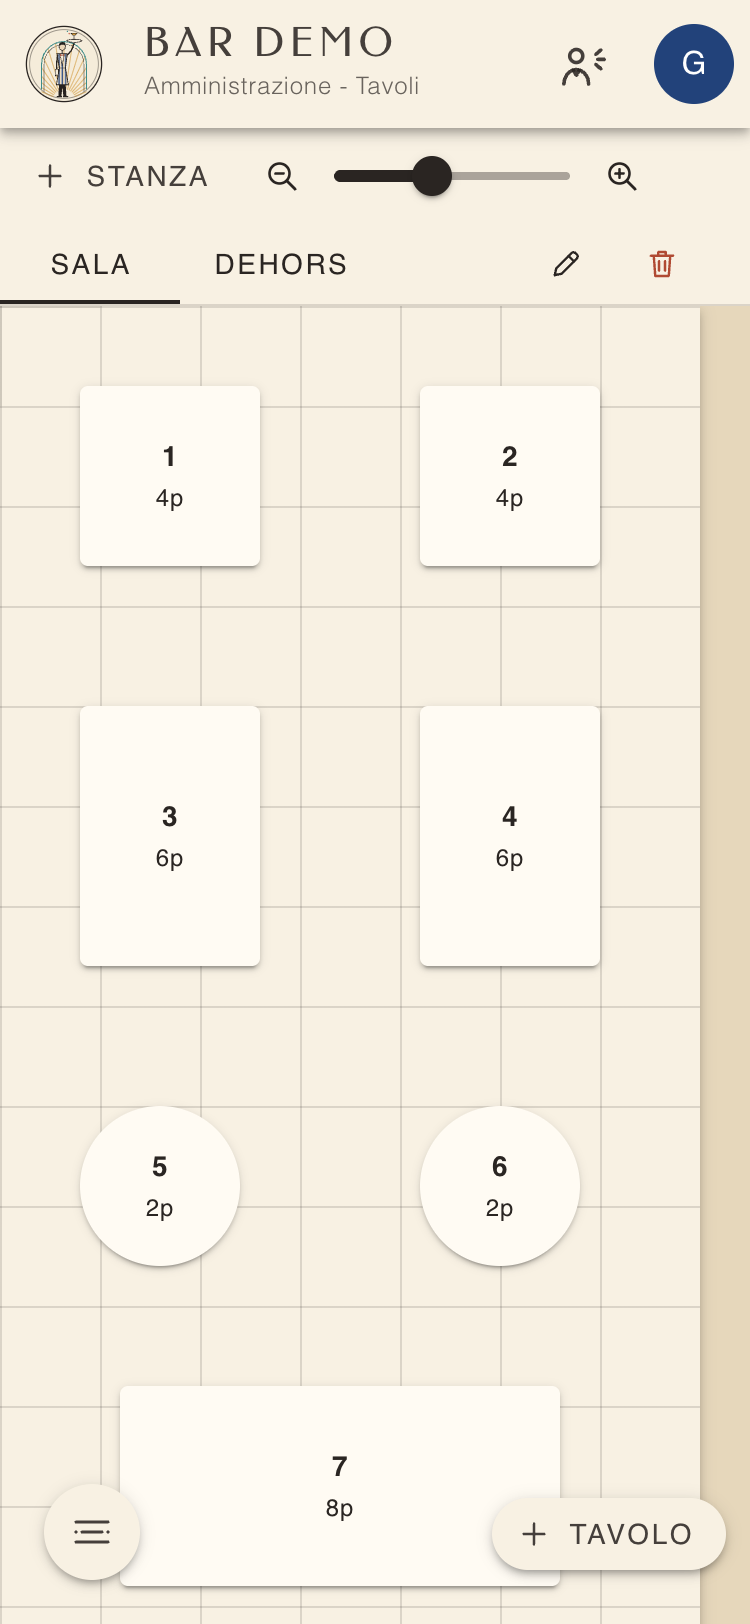
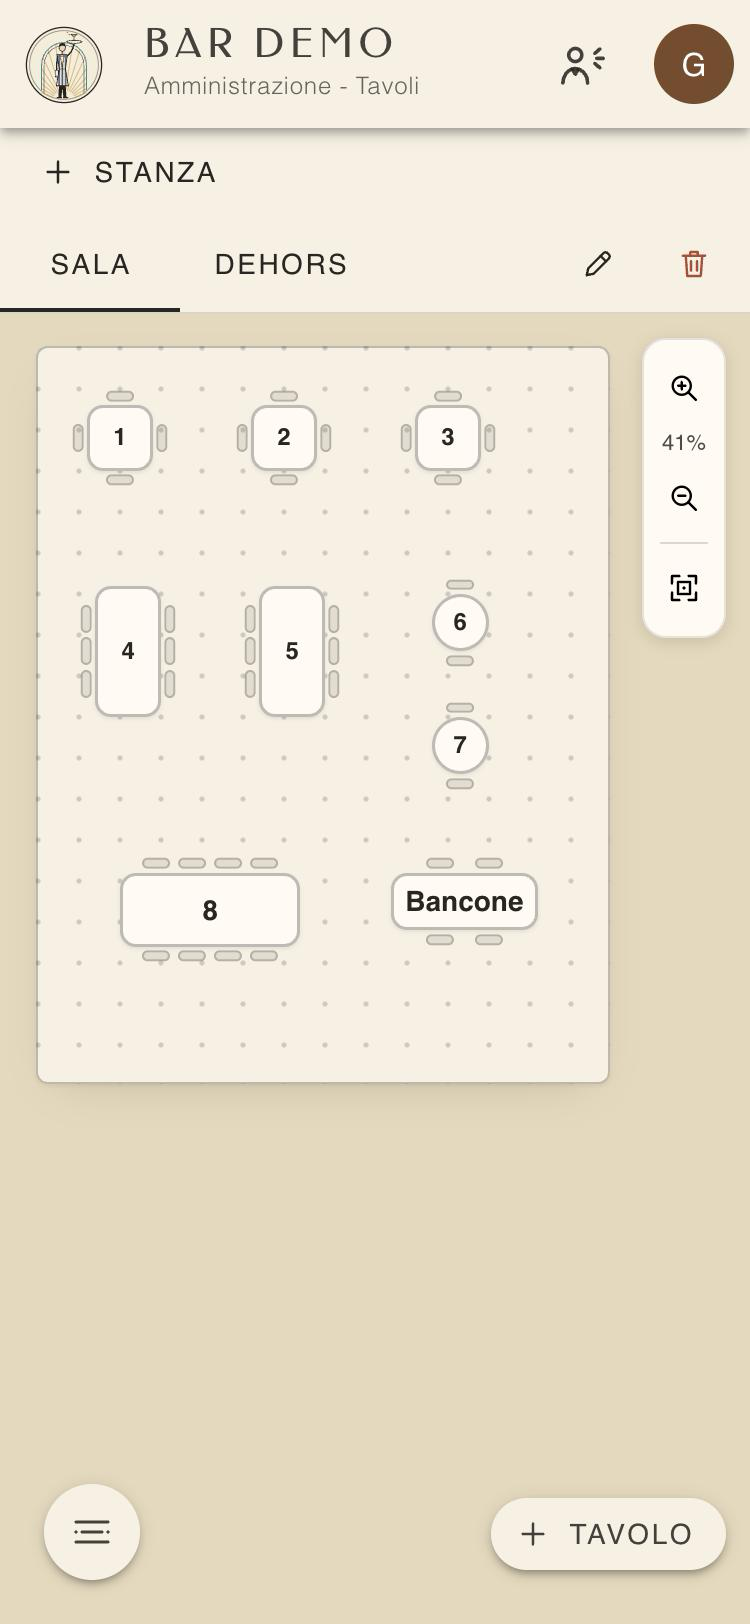
chore: guide synced with chi-comanda (floor plan, sign-up, subscription, privacy tools)

diff --git a/src/content/guida/registrazione.md b/src/content/guida/registrazione.md
@@ -1,0 +1,50 @@
+# Registrare il tuo locale
+
+[← Guida](/guida)
+
+Se il tuo locale non usa ancora Chi Comanda, puoi registrarlo da solo. La registrazione crea il locale e il tuo account
+di amministratore; poi una configurazione guidata ti accompagna fino alla prima serata.
+
+## Registrarsi
+
+1. Apri la pagina **Registra il tuo locale** (dal sito, o dalla pagina di accesso: **Non hai un account? Registra il tuo
+   locale**).
+2. Scrivi il **Nome del locale**, **Il tuo nome**, l'**E-mail** e una **Password** di almeno 8 caratteri.
+3. Spunta le tre caselle: accetti le **condizioni del servizio**, confermi di aver letto l'**informativa sulla privacy** e
+   approvi le **clausole elencate nelle condizioni** (prova, rinnovo e prezzi, sospensione, recesso, responsabilità,
+   modifiche, foro), come chiede il codice civile per questi contratti. I link aprono i testi.
+4. Tocca **REGISTRATI**.
+
+Arriva un'e-mail: apri il link **entro 24 ore**. Il locale nasce solo allora, e tu entri subito come amministratore.
+Se l'e-mail non arriva, guarda nello spam.
+
+### Con Google
+
+Scrivi solo il **Nome del locale**, spunta le tre caselle e tocca **Registrati con Google**. Google conferma la tua
+e-mail: il locale nasce subito, senza aspettare l'e-mail.
+
+### Hai già un account
+
+Se con quella e-mail lavori già in un locale su Chi Comanda, l'e-mail ti chiede di confermare l'aggiunta del nuovo
+locale al tuo account. Dopo la conferma entri con la tua password di sempre e scegli il locale dall'elenco
+([Scegliere il locale](/guida/primi-passi#scegliere-il-locale)).
+
+## La configurazione guidata
+
+Dopo la registrazione si apre **Benvenuto in Chi Comanda**: sei passi, uno alla volta. Ognuno si può fare (**Fatto,
+avanti**) o saltare (**Salta**) e ritrovare dopo: la pagina ricorda dove sei arrivato. Finché non l'hai finita, in
+cima alle pagine di amministrazione compare **Continua la configurazione**; la ritrovi anche in **Impostazioni → Dati
+del locale → Apri la configurazione guidata**.
+
+1. **Il tuo locale**: nome e colore principale. Il logo si carica in [Impostazioni](/guida/amministratore/impostazioni).
+2. **Sale e tavoli**: **Disegna sale e tavoli** apre la piantina ([Sale e tavoli](/guida/amministratore/locale)).
+3. **Il menu**: **Scarica il modello** scarica un file da aprire con Excel, una riga per prodotto, già compilato con
+   qualche esempio. Poi in **Menu**, sulla scheda del menu, **CSV → Importa…**
+   ([Import ed export del menu](/guida/amministratore/menu-csv)). Oppure aggiungi i prodotti a mano.
+4. **Le postazioni**: dove si preparano gli ordini. **+ Bar** e **+ Cucina** le creano con un tocco; ne puoi aggiungere
+   altre. Ogni prodotto del menu va a una postazione.
+5. **Lo staff**: scrivi l'e-mail e i ruoli e tocca **Invita**: la persona riceve l'invito
+   ([Persone e ruoli](/guida/amministratore/persone)). Un locale appena registrato può mandare fino a 20 inviti al giorno.
+6. **La prima serata**: nome e data. La avvii da **Eventi** quando apri il locale ([Eventi](/guida/amministratore/eventi)).
+
+**Chiudi la configurazione** la toglie di mezzo; puoi riaprirla dalle Impostazioni.

diff --git a/src/content/guida/amministratore/abbonamento.md b/src/content/guida/amministratore/abbonamento.md
@@ -1,0 +1,49 @@
+# Abbonamento
+
+[← Amministratore](/guida/amministratore)
+
+Se il tuo locale si è registrato da solo su Chi Comanda, in **Amministrazione → Abbonamento** trovi il piano, la prova
+gratuita, i dati di fatturazione e i pagamenti. I locali che hanno un accordo diretto con Chi Comanda non hanno questa
+pagina.
+
+## La prova gratuita
+
+Un locale appena registrato ha **30 giorni di prova** con tutte le funzioni, senza carta. Una settimana e un giorno
+prima della fine arriva un'e-mail, e in cima alle pagine compare un avviso. Se scegli un piano durante la prova, i giorni
+che restano non si perdono: il primo pagamento parte alla fine della prova.
+
+Finita la prova senza un piano, il locale va in **sola lettura** (vedi sotto).
+
+## Scegliere il piano
+
+1. Compila i **Dati di fatturazione**: ragione sociale (o nome e cognome), partita IVA o codice fiscale, indirizzo,
+   CAP, comune, provincia (la sigla, per esempio MI), e il **codice destinatario SDI** o la **PEC** per la fattura
+   elettronica (se non hai un codice, scrivi 0000000). Tocca **Salva**.
+2. In **Scegli il piano** tocca il prezzo che vuoi, mensile o annuale:
+   - **Base**: ordini, bar, cucina e cassa; pagamenti con carta, SumUp e Satispay; notifiche e messaggi allo staff;
+     menu pubblico con QR code; report della serata;
+   - **Pro**: tutto Base, più il report del personale e le uscite (portate) per la cucina.
+3. Si apre la pagina sicura di Stripe: inserisci la carta e conferma. Torni in Chi Comanda con l'abbonamento attivo.
+
+## Gestire l'abbonamento
+
+**Gestisci l'abbonamento** apre la pagina di Stripe dove cambi la carta, passi da un piano all'altro, scarichi le
+fatture o disdici. La disdetta vale alla fine del periodo già pagato: fino ad allora il locale funziona normalmente.
+
+## Se un pagamento non riesce
+
+Il locale continua a funzionare per **14 giorni**. Arrivano un'e-mail subito, una dopo una settimana e una due giorni
+prima della scadenza, e in cima alle pagine un avviso con la data. Aggiorna la carta da **Gestisci l'abbonamento**:
+appena il pagamento riesce, tutto torna normale.
+
+## Sola lettura
+
+Un locale sospeso (prova finita, pagamento non riuscito dopo i 14 giorni) o con l'abbonamento chiuso si può **solo
+consultare**: menu, serate passate, report, registro e l'[archivio dei dati](/guida/amministratore/impostazioni#dati-del-locale) restano;
+non si possono prendere ordini, aprire serate o fare modifiche. Tutti vedono un avviso in cima alle pagine.
+
+- **Mai durante il servizio**: se la sospensione arriva mentre una serata è in corso, la serata continua; il locale va
+  in sola lettura quando la chiudi. Intanto non si possono aprire nuove serate.
+- **Per tornare operativo** scegli un piano (o aggiorna la carta): la riattivazione è immediata.
+- Dopo **90 giorni** di sospensione l'abbonamento viene chiuso; dopo altri **90 giorni** arriva un'e-mail di avviso e,
+  **14 giorni** dopo, i dati del locale vengono cancellati. Puoi scaricare l'archivio dei dati in qualunque momento.

diff --git a/src/content/guida/amministratore/locale.md b/src/content/guida/amministratore/locale.md
@@ -10,23 +10,31 @@ Qui disegni la piantina del locale, quella che i camerieri vedono a ogni serata.
 
 ### Le sale
 
-- **Nuova sala**: tocca **+ STANZA** in alto, scrivi **Nome Sala**, **Larghezza** e **Altezza** in metri e tocca
-  **Salva**.
+- **Nuova sala**: tocca **+ STANZA** in alto, scrivi il **Nome della sala**, la **Larghezza** e la **Profondità** in
+  metri (servono a disegnarla in scala) e tocca **Aggiungi**.
 - **Modificare una sala**: apri la sala e tocca la **matita** accanto alle schede.
 - **Eliminare una sala**: tocca il **cestino** accanto alle schede e conferma. Spariscono anche i suoi tavoli.
 
 ### I tavoli
 
 - **Nuovo tavolo**: apri la sala e tocca **+ TAVOLO** in basso a destra.
-- **Spostare**: trascina il tavolo con il dito o con il mouse.
-- **Modificare**: tocca il tavolo. In **Configura Tavolo** scegli **Etichetta** (il nome che vedono i camerieri),
-  **Posti**, **Larghezza** e **Altezza** in centimetri, **Forma** (*Rettangolare* o *Ovale*), poi **OK**.
+- **Spostare**: trascina il tavolo con il dito o con il mouse. Mentre sistemi la sala, un puntino ogni 50 cm aiuta
+  ad allineare i tavoli.
+- **Modificare**: tocca il tavolo. In cima vedi un'anteprima del tavolo con le sue sedie, che cambia mentre scrivi.
+  - **Nome o numero**: come lo chiamano i camerieri (12, Bancone, Divanetto…);
+  - **Forma**: *Rettangolo* o *Tondo*;
+  - **Misure comuni**: un tocco imposta misure e posti di un tavolo tipico (*Da 2*, *Da 4*, *Ø 90*…);
+  - **Posti** (con **−** e **+**), **Larghezza** e **Profondità** in centimetri.
+
+  Poi **Salva** (**Aggiungi** per un tavolo nuovo).
+
+  <img src="/guida/img/admin-tavolo-modifica.png" alt="Modifica di un tavolo, con l'anteprima" width="280">
 - **Eliminare**: tocca il tavolo e poi **Elimina**. Non c'è se il tavolo è in uso.
 
 **Importante**: le modifiche diventano definitive solo quando tocchi **Salva** in alto. Con **Annulla** torni alla
 piantina salvata.
 
-Per ingrandire o rimpicciolire usa il cursore con le lenti.
+Per ingrandire, rimpicciolire o adattare la sala allo schermo usa i pulsanti in alto a destra sulla piantina.
 
 Le modifiche fatte qui valgono dalla prossima serata. Durante una serata, camerieri e cassieri possono cambiare la
 piantina solo per quella sera da **Gestione Tavoli** (vedi [Cameriere](/guida/cameriere#gestione-tavoli)).

diff --git a/src/content/guida/cameriere.md b/src/content/guida/cameriere.md
@@ -10,9 +10,13 @@ avvisa l'amministratore.
 <img src="/guida/img/cameriere-mappa-occupata.png" alt="Piantina della sala con i tavoli" width="280">
 
 - In alto ci sono le **sale** (per esempio **SALA**, **DEHORS**): toccane una per vederla.
-- Il cursore con le lenti serve a ingrandire o rimpicciolire la piantina.
-- Ogni tavolo mostra il nome e i posti (es. *4p* = 4 posti).
-- I tavoli **con il bordo colorato** sono già aperti: hanno almeno un ordine.
+- La sala si apre già adattata allo schermo. I pulsanti in alto a destra la **ingrandiscono** (lente con +), la
+  **rimpiccioliscono** (lente con −) e la **adattano allo schermo** (il riquadro); in mezzo c'è lo zoom attuale. Lo
+  zoom che scegli resta su quel telefono.
+- Ogni tavolo è disegnato con le sue sedie e mostra il nome e i posti (es. *4 posti*); sui tavoli piccoli solo il nome.
+- I tavoli **colorati**, con il bordo e le sedie del colore del locale, sono già aperti: hanno almeno un ordine.
+- Se il locale usa le uscite, un'etichetta sull'angolo del tavolo dice quale portata aspetta la cucina (es. *2ª in
+  attesa*).
 - La scheda **EXTRA** compare quando ci sono tavoli extra (vedi sotto).
 
 La piantina si aggiorna da sola quando un collega apre un tavolo («Tavoli aggiornati»).
@@ -154,8 +158,8 @@ resta com'è).
 2. Puoi:
    - **spostare** un tavolo trascinandolo con il dito;
    - **aggiungere** un tavolo con **+ TAVOLO** in basso a destra;
-   - **modificare** un tavolo toccandolo: **Etichetta** (il nome), **Posti**, misure e **Forma**, poi **OK**.
-     Cambiando l'etichetta di un tavolo già aperto cambia anche il nome del suo conto.
+   - **modificare** un tavolo toccandolo (vedi [I tavoli](/guida/amministratore/locale#i-tavoli)), poi **Salva**.
+     Cambiando il nome di un tavolo già aperto cambia anche il nome del suo conto.
 3. Tocca **Salva** in alto. Con **Annulla** torni alla piantina di prima.
 
 Un tavolo già aperto non si può eliminare.

diff --git a/src/content/guida/amministratore/impostazioni.md b/src/content/guida/amministratore/impostazioni.md
@@ -46,6 +46,28 @@ Per tornare al logo di Chi Comanda tocca **Usa il logo predefinito**.
 Sui telefoni dove l'app è già installata, la nuova icona può metterci un po' a comparire. Se non cambia, togli l'app
 dalla schermata Home e aggiungila di nuovo.
 
+### Dati del locale
+
+**Prepara l'archivio** prepara un file .zip con tutti i dati del locale: lo staff e i ruoli, i menu (nello stesso
+formato dell'[import del menu](/guida/amministratore/menu-csv)), le serate, ogni prodotto ordinato con tavolo, ora, prezzo e chi l'ha
+ordinato, i pagamenti, il registro attività, il logo e il menu in PDF. I file .csv si aprono con Excel; la cartella
+`dati` contiene gli stessi dati per un programma. Il file LEGGIMI.txt spiega cosa c'è in ogni file.
+
+L'archivio è pronto di solito in pochi minuti: arriva un'e-mail e compare **Scarica** nell'elenco. Resta da scaricare
+per 7 giorni. Le chiavi dei pagamenti elettronici (SumUp, Satispay) non ci sono mai.
+
+### Eliminare il locale
+
+In **Dati del locale**, **Elimina il locale**: scrivi il nome del locale e conferma. Da quel momento:
+
+- lo staff non può più entrare nel locale; tu e gli altri amministratori sì;
+- arriva un'e-mail a tutti gli amministratori con la data dell'eliminazione, fra **30 giorni**;
+- fino a quella data puoi scaricare l'archivio dei dati o toccare **Annulla l'eliminazione**: tutto torna com'era.
+
+Alla data, tutti i dati del locale (menu, serate, ordini, pagamenti, registro, logo) vengono cancellati per sempre.
+Le persone che lavoravano solo nel tuo locale perdono anche l'account. Le copie di sicurezza che li contengono vengono
+cancellate entro altri 30 giorni.
+
 ## Pagamenti
 
 > **Funzione opzionale** · La sezione **Pagamenti** c'è solo se il locale ha i pagamenti attivi. Senza, la cassa

diff --git a/src/content/guida/domande-frequenti.md b/src/content/guida/domande-frequenti.md
@@ -61,9 +61,16 @@ Nella pagina di accesso tocca **Password dimenticata**. Vedi [Primi passi](/guid
 
 ### Leggo «Troppi tentativi di accesso: riprova tra … minuti»
 
-Dopo 5 accessi falliti di fila con la stessa e-mail l'app aspetta un po' prima di provare ancora (al massimo 15
-minuti): così nessuno può indovinare una password a forza di tentativi. Aspetta il tempo indicato e riprova con calma,
-oppure usa **Password dimenticata**. Un accesso riuscito azzera il conteggio.
+Dopo 5 accessi falliti con la stessa e-mail in un quarto d'ora l'app aspetta un po' prima di lasciarti provare
+ancora: così nessuno può indovinare una password a forza di tentativi. La prima volta l'attesa è di 15 minuti; se
+nella stessa giornata sbagli di nuovo cinque volte, l'attesa cresce (30 minuti, un'ora, fino a 4 ore). Aspetta il
+tempo indicato e riprova con calma, oppure usa **Password dimenticata**. Un accesso riuscito azzera il conteggio.
+
+### Leggo «Troppe richieste di reimpostazione della password»
+
+**Password dimenticata** manda un'e-mail a ogni richiesta: dopo 5 richieste in un'ora per la stessa e-mail l'app
+aspetta prima di mandarne altre. Controlla la posta (anche lo spam): il link dell'ultima e-mail arrivata funziona.
+Lo stesso messaggio compare se da un telefono si aprono molti link di reimpostazione non validi o scaduti.
 
 ### Il link dell'invito non funziona
 

diff --git a/src/content/guida/primi-passi.md b/src/content/guida/primi-passi.md
@@ -92,6 +92,22 @@ Da **PROFILO** puoi:
 
 L'e-mail non si può cambiare da qui.
 
+### Scaricare i tuoi dati
+
+**SCARICA I TUOI DATI** scarica un archivio (.zip) con quello che Chi Comanda conserva su di te in tutti i locali: il
+tuo account, i locali e i ruoli, le serate in cui eri nello staff, gli ordini che hai preso e le attività del registro
+che ti riguardano. Dentro, il file LEGGIMI.txt spiega cosa c'è in ogni file; i file .csv si aprono con Excel.
+
+### Eliminare l'account
+
+In fondo al profilo, **ELIMINA L'ACCOUNT**: scrivi la tua password (se entri con Google, la tua e-mail) e conferma.
+È definitivo e vale per tutti i locali: il tuo nome, l'e-mail e la foto vengono cancellati e non puoi più entrare. Gli
+ordini che hai preso e i tavoli che hai aperto restano nei conti dei locali, a nome di «Utente eliminato». Per tornare a
+lavorare in un locale serve un nuovo invito.
+
+Se sei l'unico amministratore di un locale in cui lavorano altre persone, prima nomina un altro amministratore
+(**Amministrazione → Utenti**).
+
 ## Installare l'app sul telefono
 
 Chi Comanda non si scarica dagli store: si aggiunge alla schermata Home dal browser, e poi si apre come un'app,

diff --git a/src/content/guida/amministratore/persone.md b/src/content/guida/amministratore/persone.md
@@ -49,4 +49,6 @@ in quel caso togli i ruoli o rimuovila dal locale.
 ## Rimuovere una persona dal locale
 
 Tocca la persona, poi **ELIMINA** e conferma. La persona non lavora più nel tuo locale; se non lavora in nessun altro,
-il suo account viene cancellato.
+il suo account viene chiuso e non può più entrare. Per un anno il registro attività continua a mostrare il suo nome
+accanto a quello che ha fatto; poi il nome e l'e-mail vengono cancellati e al loro posto compare «Utente eliminato». Chi
+vuole cancellare subito i propri dati lo fa da sé, dal profilo ([Eliminare l'account](/guida/primi-passi#eliminare-laccount)).

diff --git a/src/content/guida/amministratore/README.md b/src/content/guida/amministratore/README.md
@@ -23,6 +23,7 @@ sinistra.
 | **Utenti** | Inviti e ruoli dello staff | [Persone](/guida/amministratore/persone) |
 | **Report** | Incassi, prodotti, orari, sconti, personale e postazioni, per serata o per periodo | [Report](/guida/amministratore/report) |
 | **Registro** | Chi ha fatto cosa: ordini, cassa, menu, serate, staff, accessi | [Registro attività](/guida/amministratore/registro-attivita) |
+| **Abbonamento** | Solo per i locali registrati da soli: piano, prova, dati di fatturazione, pagamenti | [Abbonamento](/guida/amministratore/abbonamento) |
 
 ## Prima serata: da dove partire
 

diff --git a/src/content/guida/README.md b/src/content/guida/README.md
@@ -9,6 +9,7 @@ Questa guida spiega come usarla, ruolo per ruolo.
 
 | Sei… | Leggi |
 |---|---|
+| Titolare di un locale nuovo | [Registrare il tuo locale](/guida/registrazione): registrazione e configurazione guidata |
 | Nuovo nello staff | [Primi passi](/guida/primi-passi): invito, accesso, scelta del locale, app sul telefono |
 | Cameriere | [Cameriere](/guida/cameriere) |
 | Barista o in cucina | [Barista e cucina](/guida/barista) |
